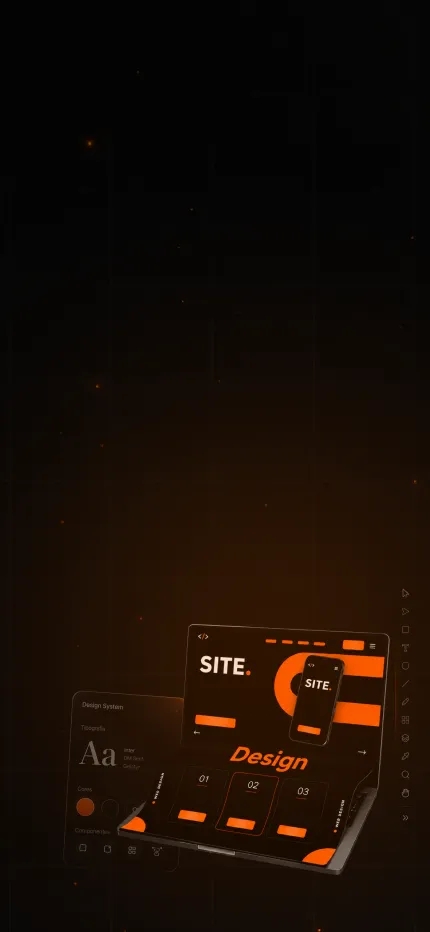
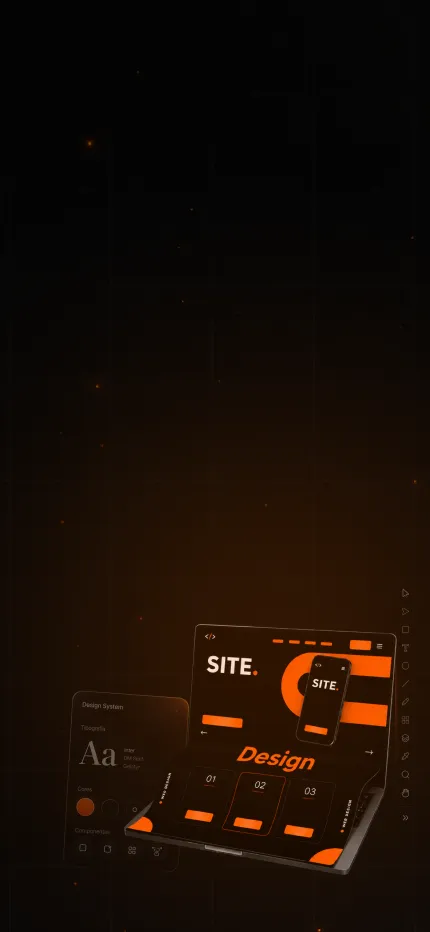
ajustes finais

Changed region(s): [[0.4233, 0.6534, 0.9372, 0.9646], [0.2721, 0.809, 0.393, 0.9024]]

diff --git a/style.css b/style.css
@@ -2476,7 +2476,6 @@ footer .textoAnimado span .charFooter {
     width: 40px;
     height: auto;
     pointer-events: auto;
-    pointer-events: auto;
     transition:
       opacity 0.25s ease,
       visibility 0.25s ease;
@@ -2486,140 +2485,67 @@ footer .textoAnimado span .charFooter {
     width: 38px;
   }
 
-  .menu-drop-down {
-    position: fixed;
-    left: 50%;
-    top: -0.5rem;
-
-    width: 90%;
-    max-width: 430px;
-    height: 24rem;
-
-    transform: translate3d(-50%, -21rem, 0);
-
-    z-index: 10010;
-    display: flex;
-    justify-content: center;
-
-    background: #ef6500;
-    border-radius: 0 0 42px 42px;
-
-    pointer-events: auto;
-    overflow: visible;
+  .headerMobile.menuAberto .logoMobile,
+  .headerMobile.menuAberto .iconeMobile {
+    opacity: 0;
+    visibility: hidden;
   }
 
   .menu-drop-down {
     position: fixed;
     left: 50%;
     top: -0.5rem;
-
     width: 90%;
     max-width: 430px;
     height: 24rem;
-
     transform: translate3d(-50%, -21rem, 0);
-
     z-index: 10010;
-    display: flex;
-    justify-content: center;
-
     background: transparent;
-    border-radius: 0;
-
     pointer-events: auto;
     overflow: visible;
   }
 
- 
+  .menu-links {
+    position: absolute;
+    left: 0;
+    top: 0;
+    width: 100%;
+    height: 19rem;
+    padding: 2rem 2rem 5.2rem;
+    display: flex;
+    flex-direction: column;
+    gap: 0;
+    background: #ef6500;
+    border-radius: 0 0 20px 20px;
+    transform: translateY(-4.8rem);
+    z-index: 2;
+  }
+
   .shape {
     position: absolute;
     left: 0;
     right: 0;
-
     bottom: -8px;
-
     width: 100%;
     height: auto;
-
+    display: block;
     z-index: 3;
     pointer-events: none;
-    display: block;
-  }
-
-  .menu-links {
-  position: absolute;
-  left: 0;
-  top: 0;
-  z-index: 2;
-
-  width: 100%;
-  gap: 16px;
-
-  padding: 2rem 2rem 4.8rem;
-
-  display: flex;
-  flex-direction: column;
-  border-radius: 0 0 20px 20px;
-  background: #ef6500;
-  transform: translateY(-4.8rem);
-}
-
-  .nav-link {
-    display: grid;
-    grid-template-columns: 42px 1fr;
-    align-items: center;
-
-    width: 100%;
-    height: 38px;
-
-    color: #000;
-    text-decoration: none;
-
-    border-bottom: 1px solid rgba(0, 0, 0, 0.12);
-
-    opacity: 0;
-    transform: translateY(40px);
-  }
-
-  .nav-link img {
-    width: 16px;
-    height: 16px;
-    object-fit: contain;
-    justify-self: center;
-  }
-
-  .nav-link span {
-    text-align: start;
-    font-family: "Roboto Serif", serif;
-    font-size: 15px;
-    font-weight: 400;
-    color: #000;
-  }
-
-  .nav-link.ativo {
-    background: #fffefd;
-    border-radius: 6px;
-    border-bottom-color: transparent;
   }
 
   .menu-btn {
     position: absolute;
     left: 50%;
     bottom: 0.4rem;
-
     transform: translateX(-50%);
-
-    z-index: 5;
-
+    z-index: 4;
     width: 1.5rem;
     height: 1.5rem;
-
     display: flex;
     flex-direction: column;
     justify-content: center;
     align-items: center;
     gap: 5px;
-
     background: transparent;
     border: 0;
     cursor: pointer;
@@ -2634,9 +2560,37 @@ footer .textoAnimado span .charFooter {
     display: block;
   }
 
-  .headerMobile.menuAberto .logoMobile,
-  .headerMobile.menuAberto .iconeMobile {
+  .nav-link {
+    display: grid;
+    grid-template-columns: 42px 1fr;
+    align-items: center;
+    width: 100%;
+    height: 38px;
+    color: #000;
+    text-decoration: none;
+    border-bottom: 1px solid rgba(0, 0, 0, 0.12);
     opacity: 0;
-    visibility: hidden;
+    transform: translateY(40px);
+  }
+
+  .nav-link img {
+    width: 16px;
+    height: 16px;
+    object-fit: contain;
+    justify-self: center;
+  }
+
+  .nav-link span {
+    text-align: center;
+    font-family: "Roboto Serif", serif;
+    font-size: 15px;
+    font-weight: 400;
+    color: #000;
+  }
+
+  .nav-link.ativo {
+    background: #fffefd;
+    border-radius: 6px;
+    border-bottom-color: transparent;
   }
 }